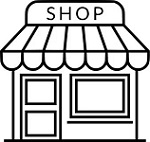
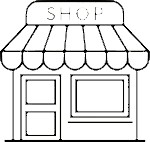
объединенная версия

Changed region(s): [[0.0, 0.0, 1.0, 1.0]]

diff --git a/main.py b/main.py
@@ -249,7 +249,7 @@ def create_particles(position):
 
 class Particle(pygame.sprite.Sprite):
     # сгенерируем частицы разного размера
-    fire = [load_image("bottle.png")]
+    fire = [load_image("bottle.png", -1)]
     for scale in (5, 10, 20):
         fire.append(pygame.transform.scale(fire[0], (scale, scale)))
 
@@ -481,7 +481,7 @@ if __name__ == "__main__":
     elapsed_time = 0
     time = pygame.time.Clock
     running = True
-    shop_image = load_image('shop2.jpg', -1)
+    shop_image = load_image('shop2.png', -1)
     shop_rect = (650, 450, *shop_image.get_size())
     game = Game(1)
     start_screen()
